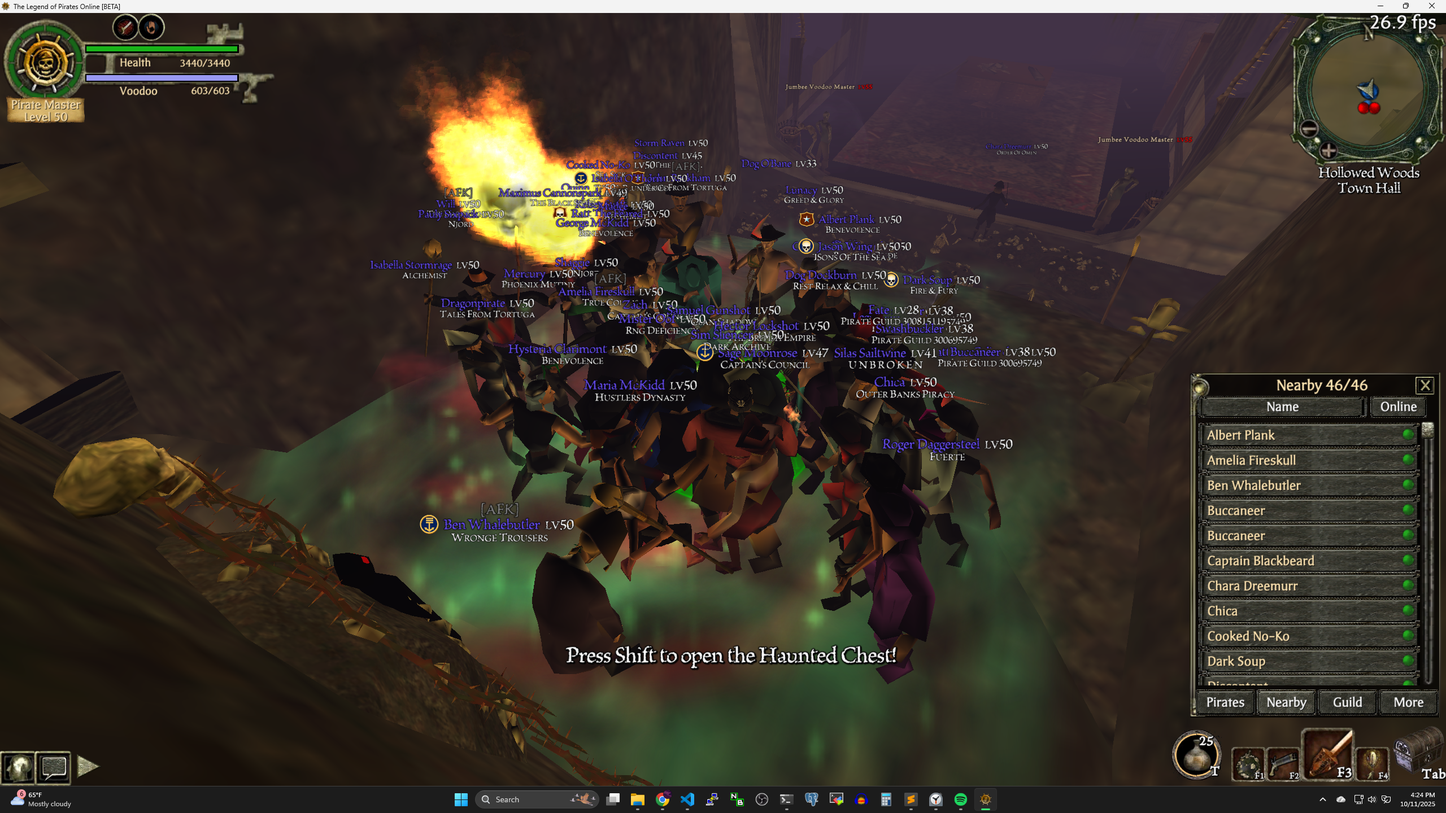
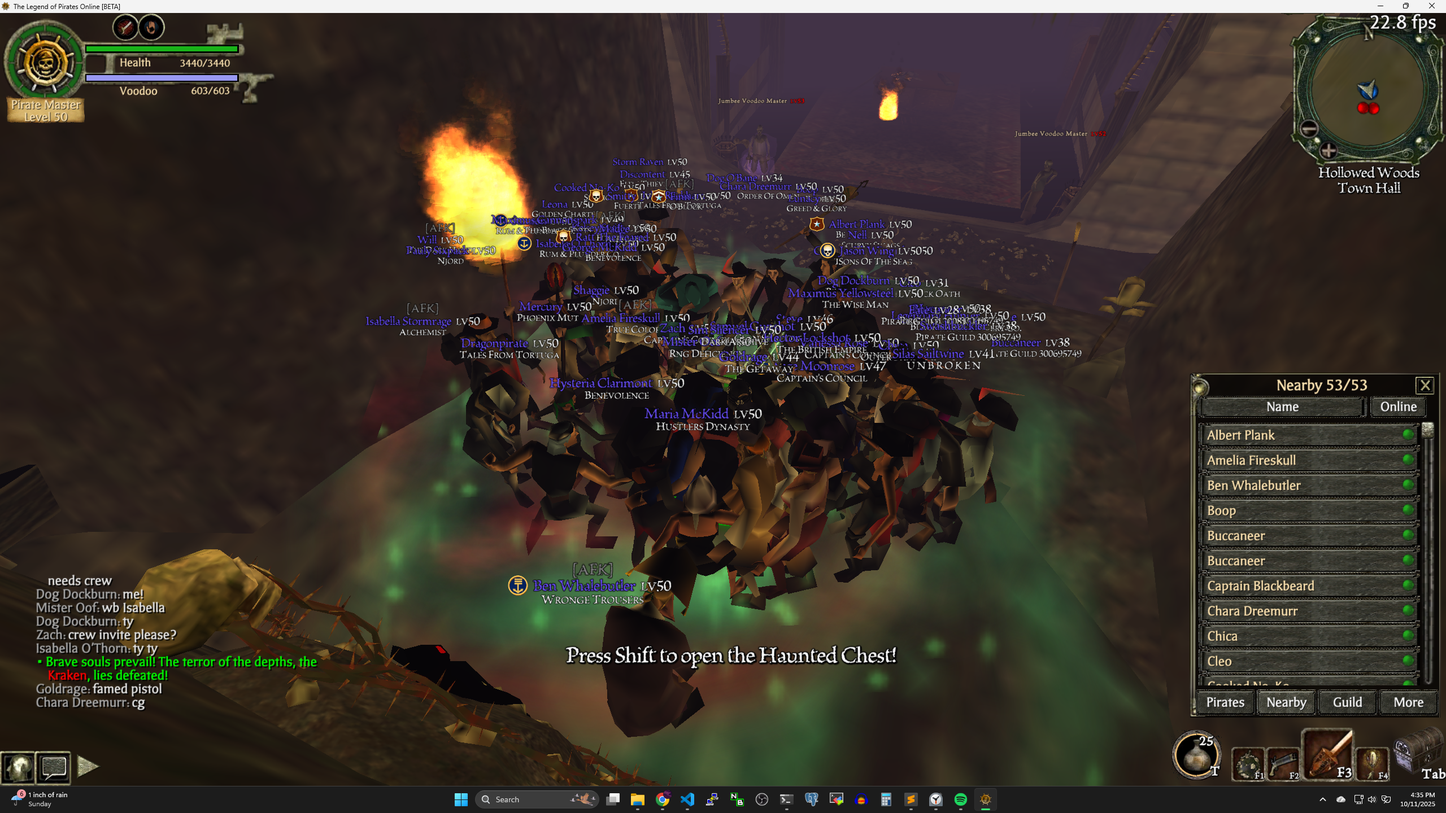
added screenshot of every chest, and improve the flow

diff --git a/screenshottoapi.py b/screenshottoapi.py
@@ -36,8 +36,11 @@ SS_MIN_CONF = 0.2
 API_POLL_INTERVAL = 5.0         # seconds between main polls
 CTRL_PRESS_INTERVAL = 1.0       # seconds between ctrl presses while enemy present
 LOOT_RECHECK_DELAY = 3.0        # wait after first loot click before re-check  # (kept but no longer used)
-MAINT_INTERVAL = 45.0           # periodic Esc+Ctrl
-LOOT_KEEP_OPEN = 2.0            # NEW: keep chest open for 2s
+MAINT_INTERVAL = 120.0          # periodic Esc+Ctrl (every 2 minutes)
+LOOT_KEEP_OPEN = 2.0            # keep chest open for 2s
+
+# No-enemy fallback
+ENEMY_ABSENCE_CTRL_THRESHOLD = 5  # press Ctrl if no enemy for N polls
 
 # Files
 SCREENSHOT_FILENAME = "screenshot.png"
@@ -115,6 +118,8 @@ class GameBot:
         # Ensure state file exists immediately
         self.save_state()
         logger.info(f"State loaded: bosses_defeated={self.state['bosses_defeated']} chests_opened={self.state['chests_opened']}")
+
+        self.no_enemy_count = 0   # NEW: consecutive no-enemy polls counter
 
     # ---------- State ----------
     def load_state(self):
@@ -315,7 +320,19 @@ class GameBot:
 
                 self.enemy_active = enemy_now
 
-                # If no enemy, handle loot (NO extra screenshot; reuse preds and labeled image)
+                # Track no-enemy streak and press Ctrl if threshold reached
+                if not self.enemy_active:
+                    self.no_enemy_count += 1
+                    logger.info(f"No-enemy streak: {self.no_enemy_count}/{ENEMY_ABSENCE_CTRL_THRESHOLD}")
+                    if self.no_enemy_count >= ENEMY_ABSENCE_CTRL_THRESHOLD:
+                        self.press_key('ctrl', reason=f"no enemy for {self.no_enemy_count} polls")
+                        self.no_enemy_count = 0
+                else:
+                    if self.no_enemy_count:
+                        logger.info("Enemy detected again, resetting no-enemy streak")
+                    self.no_enemy_count = 0
+
+                # If no enemy, handle loot (reuse preds)
                 if not self.enemy_active:
                     loot_btn = self.find_first(preds, 'LootTakeButton')
                     trash_icon = self.find_first(preds, 'TrashIcon')
